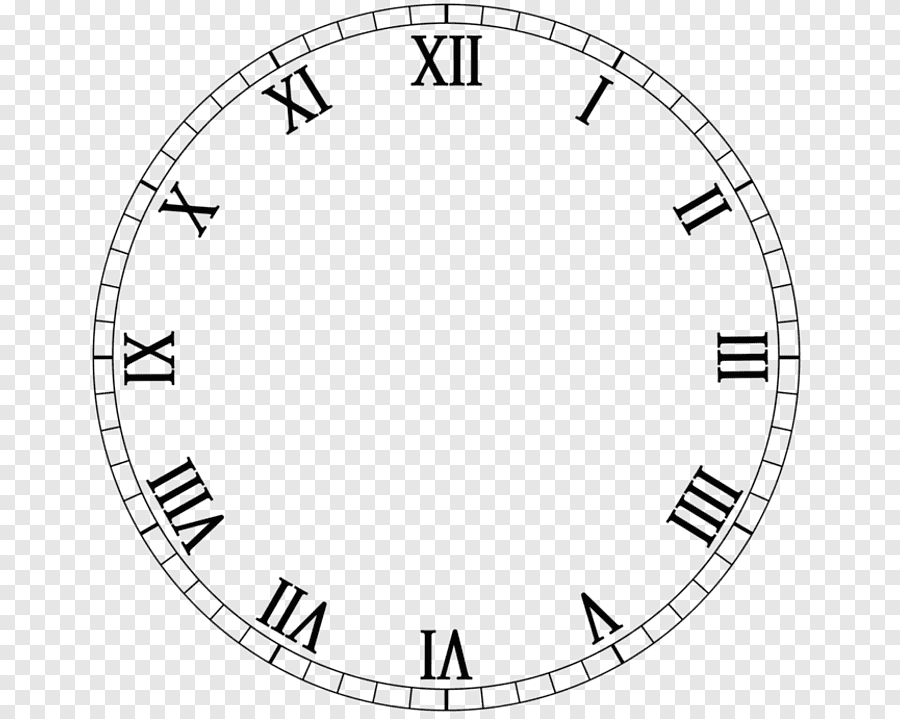
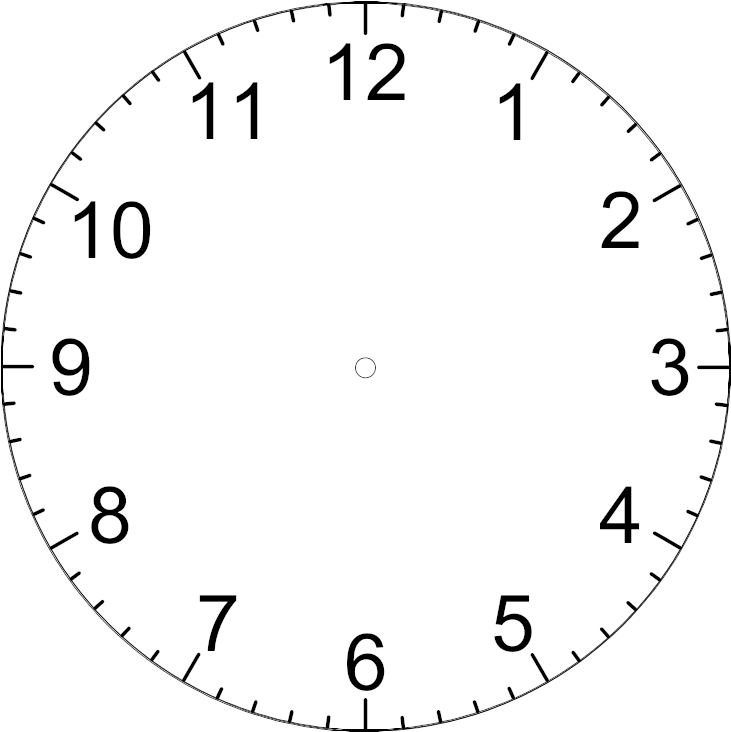
u

diff --git a/jam2.html b/jam2.html
@@ -17,7 +17,7 @@
         
         .clock {
             border-radius: 100%;
-            background: linen url(img/jam2.png);
+            background: linen url(img/jam3.png);
             background-size: cover;
             border: 15px solid black;
             box-shadow: inset 0 0 15px 3px rgba(0, 0, 0, 0.5), 0 20px 20px rgba(0, 0, 0, 0.2);
